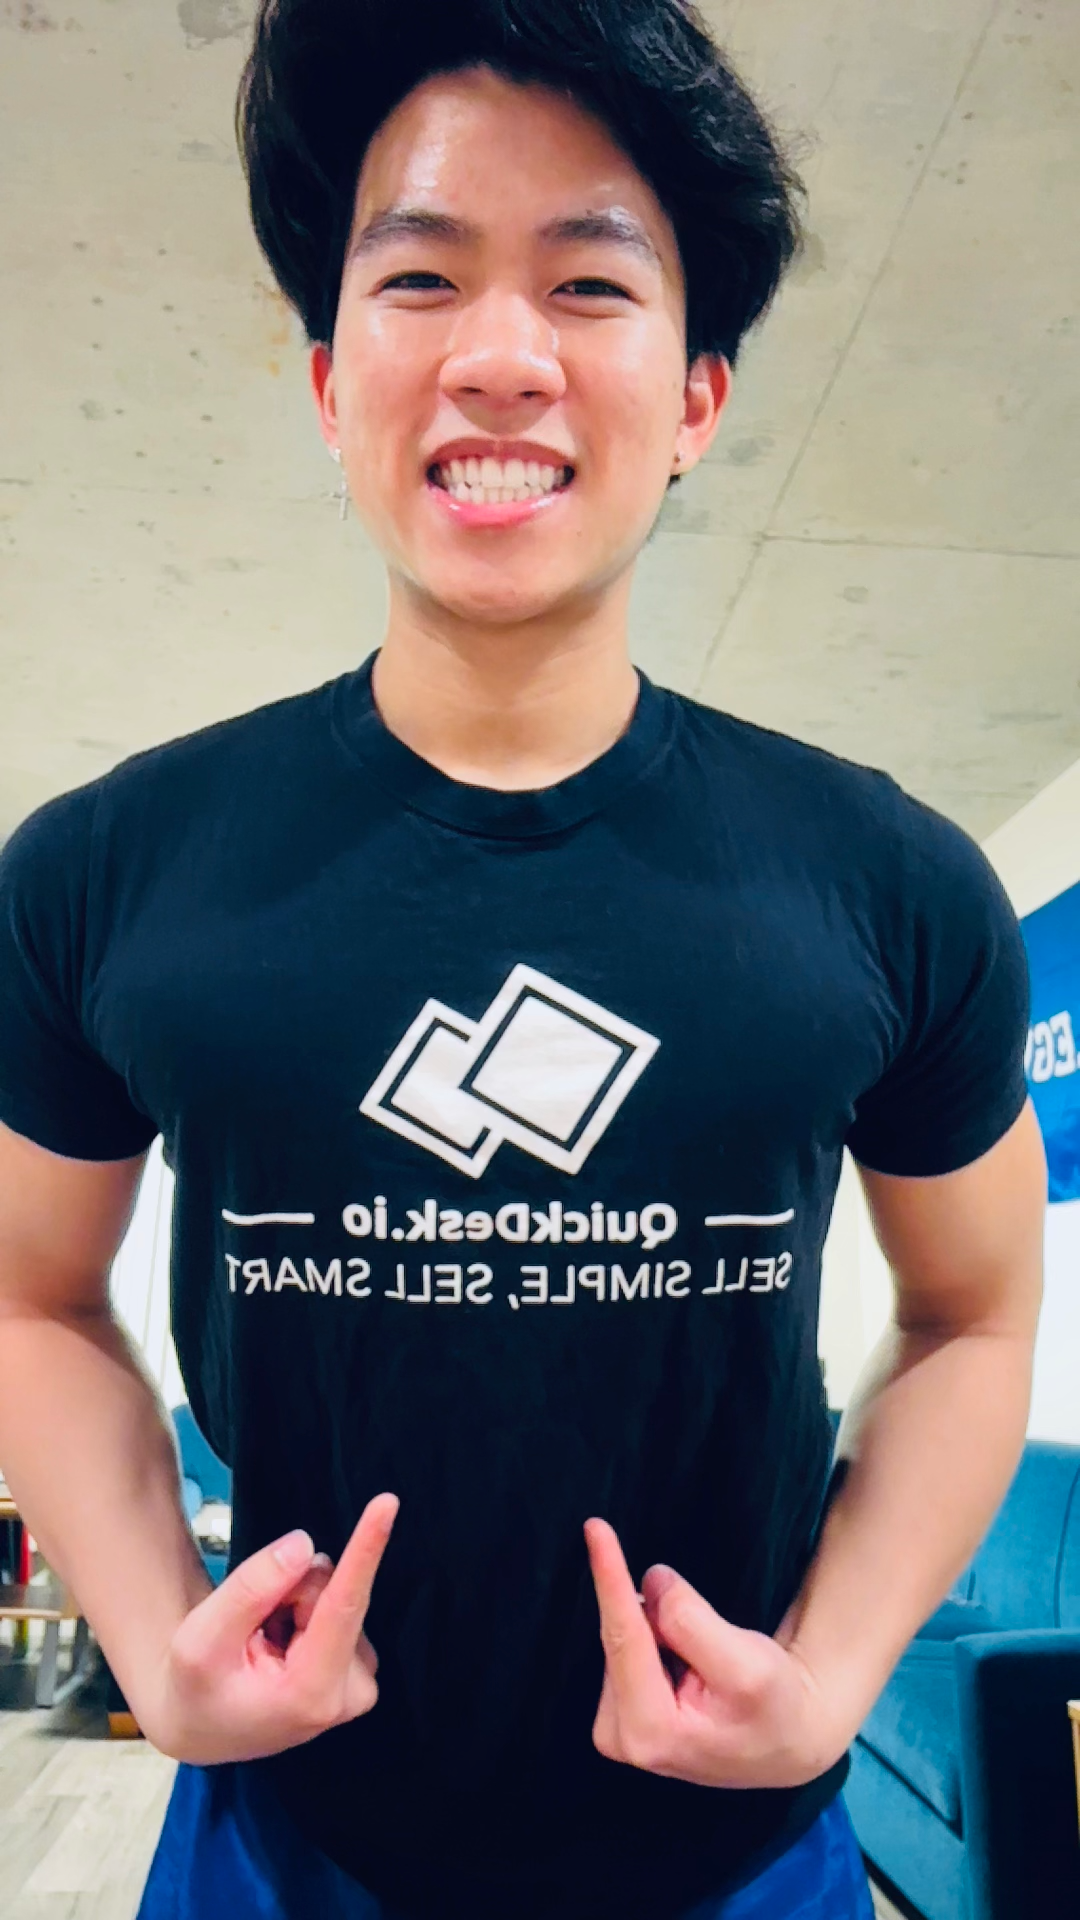
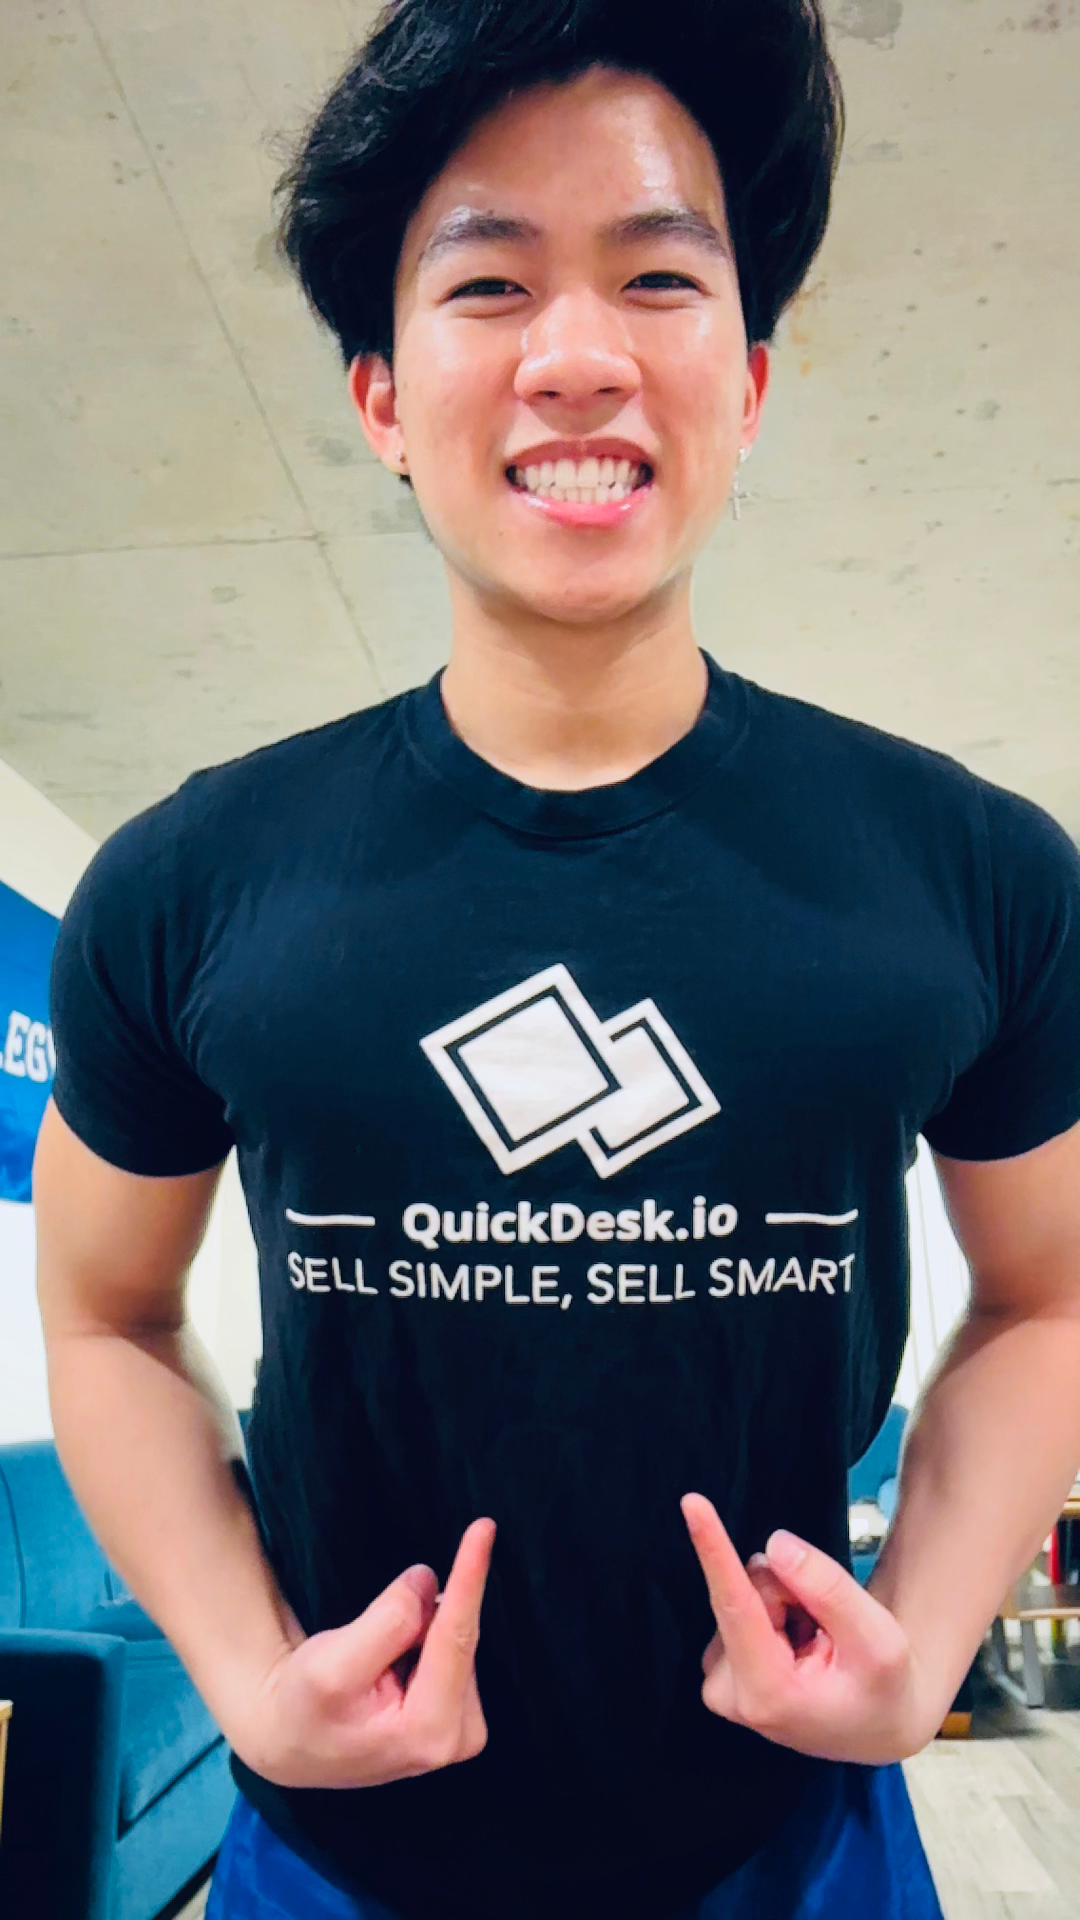
bug fixes and flipped mirror image

diff --git a/components/Navbar.tsx b/components/Navbar.tsx
@@ -99,7 +99,7 @@ const Navbar = () => {
               </li>
             </ul>
             <div onClick={handleNav} className='md:hidden'>
-              <AiOutlineMenu size={25} className={theme === 'dark' ? 'text-[#204373]' : ''}/>
+              <AiOutlineMenu size={25} className='dark:text-[#204373]'/>
             </div>
           </div>
         </div>
